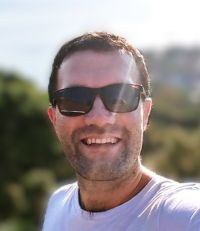
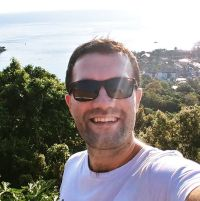
README update

diff --git a/www/index.html b/www/index.html
@@ -26,34 +26,47 @@
 
 <body>
 	<main class="container">
-		<h3>
-			Pavel Prokhorenko •
-			<a href="https://www.linkedin.com/in/pavel-prokhorenko-a3273828/">LinkedIn</a>
-		</h3>
-		<p>
-			Senior JS/TS Full‑stack Engineer, based in Thailand. Remote-first since 2013. Worked in different titles and
-			roles for Russian Railways in 2011-2026, now open for new opportunities.
-		</p>
-
-		<p>
-		<ul>
-			<li>
-				<a href="#backend-services">Backend</a>:
-				<img src="https://img.shields.io/badge/Node.js-339933?style=flat&amp;logo=node.js&amp;logoColor=white"
+		<div class="row">
+			<div class="col-auto">
+				<img style="width: 171px; border-radius: 111em; " src="./assets/images/profile_photo.jpg" alt="photo" />
+			</div>
+			<div class="col">
+				<h3>
+					Pavel Prokhorenko •
+					<a href="https://www.linkedin.com/in/pavel-prokhorenko-a3273828/">LinkedIn</a>
+				</h3>
+				<p>
+					Senior JS/TS Full‑stack Engineer, based in Thailand. Remote-first since 2013.
+				</p>
+				<p>
+					Expert in <img src="https://img.shields.io/badge/Vue.js-4FC08D?style=flat&amp;logo=vue.js&amp;logoColor=white"
+					alt="Vue.js" /> v2/3 (since 2016) and <img src="https://img.shields.io/badge/Node.js-339933?style=flat&amp;logo=node.js&amp;logoColor=white"
 					alt="Node.js" /> (since 2016)
+				</p>
+				<p>
+					In 2011-2026 I worked in
+					different titles (from jr. to sr.) for Russian Railways high-load website and other services.
+				</p>
+			</div>
+		</div>
+		<hr>
+		<!--ul>
+			<li>
+				<b>Frontend</b>:
+				<img src="https://img.shields.io/badge/Vue.js-4FC08D?style=flat&amp;logo=vue.js&amp;logoColor=white"
+					alt="Vue.js" /> v2/3 (since 2016)
 			</li>
 			<li>
-				<a href="#rzdru-admin-dashboard-app">Frontend</a>:
-				<img src="https://img.shields.io/badge/Vue.js-4FC08D?style=flat&amp;logo=vue.js&amp;logoColor=white"
-					alt="Vue.js" /> (since 2016)
+				<b>Backend</b>:
+				<img src="https://img.shields.io/badge/Node.js-339933?style=flat&amp;logo=node.js&amp;logoColor=white"
+					alt="Node.js" /> (since 2016)
 			</li>
 			<li>
 				<a href="#electron-desktop-app">Desktop</a>:
 				<img src="https://img.shields.io/badge/Electron-47848F?style=flat&amp;logo=electron&amp;logoColor=white"
 					alt="Electron" /> (since 2018)
 			</li>
-		</ul>
-		</p>
+		</ul-->
 
 		<h4 id="table-of-contents">Table of Contents</h4>
 
@@ -62,13 +75,22 @@
 				<ul>
 					<li><a href="#projects--achievements">Key Projects &amp; Achievements</a>
 						<ul>
-							<li><a href="#high-load-ticket-platform-migration">High-Load Ticket Platform
-									Migration</a></li>
-							<li><a href="#rzdru-admin-dashboard-app">RZD.ru Admin Dashboard App</a></li>
+							<li><a href="#high-load-ticket-platform-migration">
+									High-Load Ticket Platform Frontend Migration
+								</a>
+							</li>
+							<li>
+								<a href="#rzdru-admin-dashboard-app">
+									Russian Railways Admin Frontend Dashboard App
+								</a>
+							</li>
 							<li><a href="#electron-desktop-app">Electron Desktop App</a></li>
-							<li><a href="#metadata-migration--architecture">Metadata Migration &amp;
-									Architecture</a></li>
-							<li><a href="#advanced-kanban-app">Advanced Kanban App</a></li>
+							<li>
+								<a href="#metadata-migration--architecture">
+									Metadata Migration &amp; Architecture
+								</a>
+							</li>
+							<li><a href="#advanced-kanban-app">Advanced Kanban Frontend App</a></li>
 						</ul>
 					</li>
 				</ul>
@@ -100,7 +122,7 @@
 
 		<h3 id="projects--achievements">Key Projects &amp; Achievements</h3>
 
-		<h4 id="high-load-ticket-platform-migration">High-Load Ticket Platform Migration</h4>
+		<h4 id="high-load-ticket-platform-migration">High-Load Ticket Platform Frontend Migration</h4>
 
 		<p><img src="https://img.shields.io/badge/Vue.js-4FC08D?style=flat&amp;logo=vue.js&amp;logoColor=white"
 				alt="Vue.js" /></p>
@@ -108,7 +130,7 @@
 		<p><strong>Critical frontend migration of high-load ticket platform</strong></p>
 
 		<ul>
-			<li><strong>Scale:</strong> ~150K paid tickets per day (~6000/hour), 20+ million visits per month</li>
+			<li><strong>Scale:</strong> 20+ million visits per month, ~150K <i>paid</i> tickets per day (~6000/hour)</li>
 			<li><strong>Migration:</strong> Custom jQuery-based framework → Vue 2</li>
 			<li><strong>Impact:</strong> My framework selection in 2017 became the company-wide standard</li>
 			<li><strong>Complexity handled:</strong>
@@ -123,14 +145,14 @@
 			</li>
 		</ul>
 
-		<blockquote>
+		<!--blockquote>
 			<p><em>Note: Ticket sales operations have since been transferred to another company; Git history remains as
 					proof.</em></p>
-		</blockquote>
+		</blockquote-->
 
 		<hr />
 
-		<h4 id="rzdru-admin-dashboard-app">RZD.ru Admin Dashboard App</h4>
+		<h4 id="rzdru-admin-dashboard-app">Russian Railways Admin Dashboard Frontend App</h4>
 
 		<p><img src="https://img.shields.io/badge/Vue.js-4FC08D?style=flat&amp;logo=vue.js&amp;logoColor=white"
 				alt="Vue.js" /></p>
@@ -143,6 +165,7 @@
 			<li><strong>Architecture:</strong> Dynamic component rendering based on declarative <a
 					href="#metadata-migration--architecture">metadata</a></li>
 			<li><strong>Result:</strong> Significantly improved performance and developer experience</li>
+			<li><strong>Adoption:</strong> 1000+ users</li>
 		</ul>
 
 		<details class="details-mar">
@@ -272,7 +295,7 @@
 
 		<hr />
 
-		<h4 id="advanced-kanban-app">Advanced Kanban App</h4>
+		<h4 id="advanced-kanban-app">Advanced Kanban Frontend App</h4>
 
 		<p><img src="https://img.shields.io/badge/Vue.js-4FC08D?style=flat&amp;logo=vue.js&amp;logoColor=white"
 				alt="Vue.js" /></p>
@@ -402,7 +425,7 @@
 		<ul>
 			<li>VSCode with Continue</li>
 			<li>Agentic jobs with LLMs like Grok, Claude, Gemini, GPT</li>
-			<li>Openrouter with system query presets</li>
+			<li>Openrouter</li>
 			<li>Openspec for Spec-Driven Development</li>
 			<!-- li>Deepseek (expert+thinking) for complex chat questions</li -->
 		</ul>
@@ -421,13 +444,9 @@
 		</ul>
 
 		<h3 id="me">Me</h3>
-
-		<p><img width="200" src="./assets/images/profile_photo.jpg" alt="" align="left" style="margin: 0 2em .5em 0;" />
-		</p>
-
 		<ul>
 			<li><b>Languages:</b> Fluent English, native Russian</li>
-			<li><b>Location &amp; Work:</b> Now remote-first from Thailand</li>
+			<li><b>Location:</b> Now remote-first from Thailand. Timezone doesn't matter much.</li>
 		</ul>
 	</main>
 	<button type="button" class="btn btn-outline-primary btn-lg rounded-circle back-to-top-btn" id="btn-back-to-top">